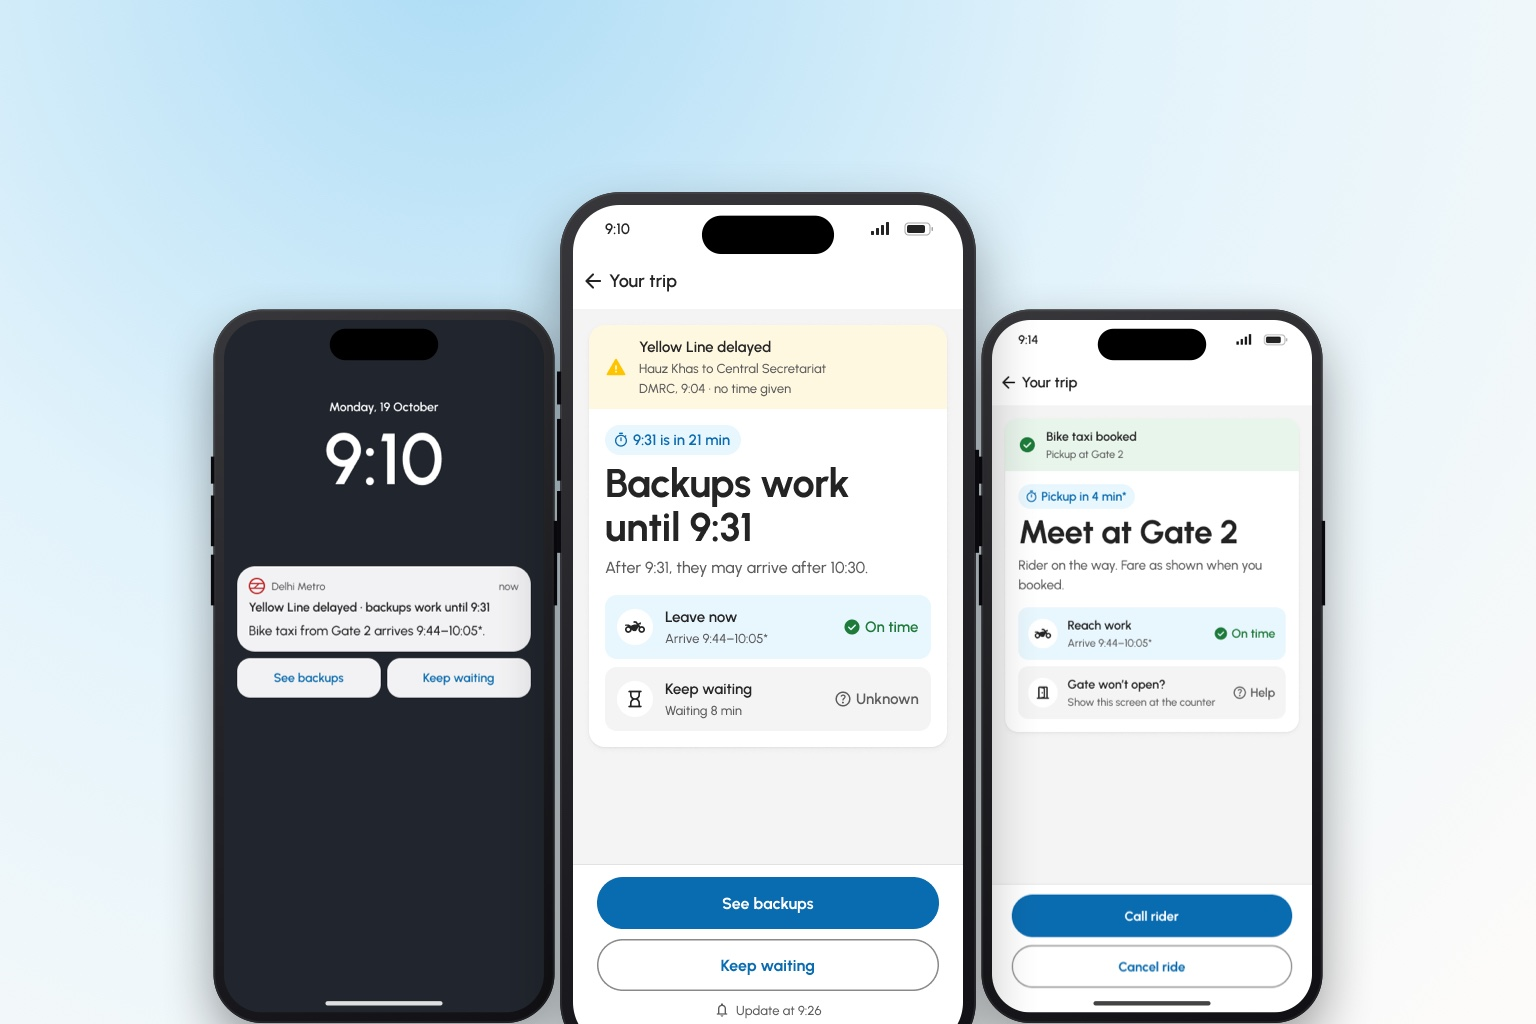
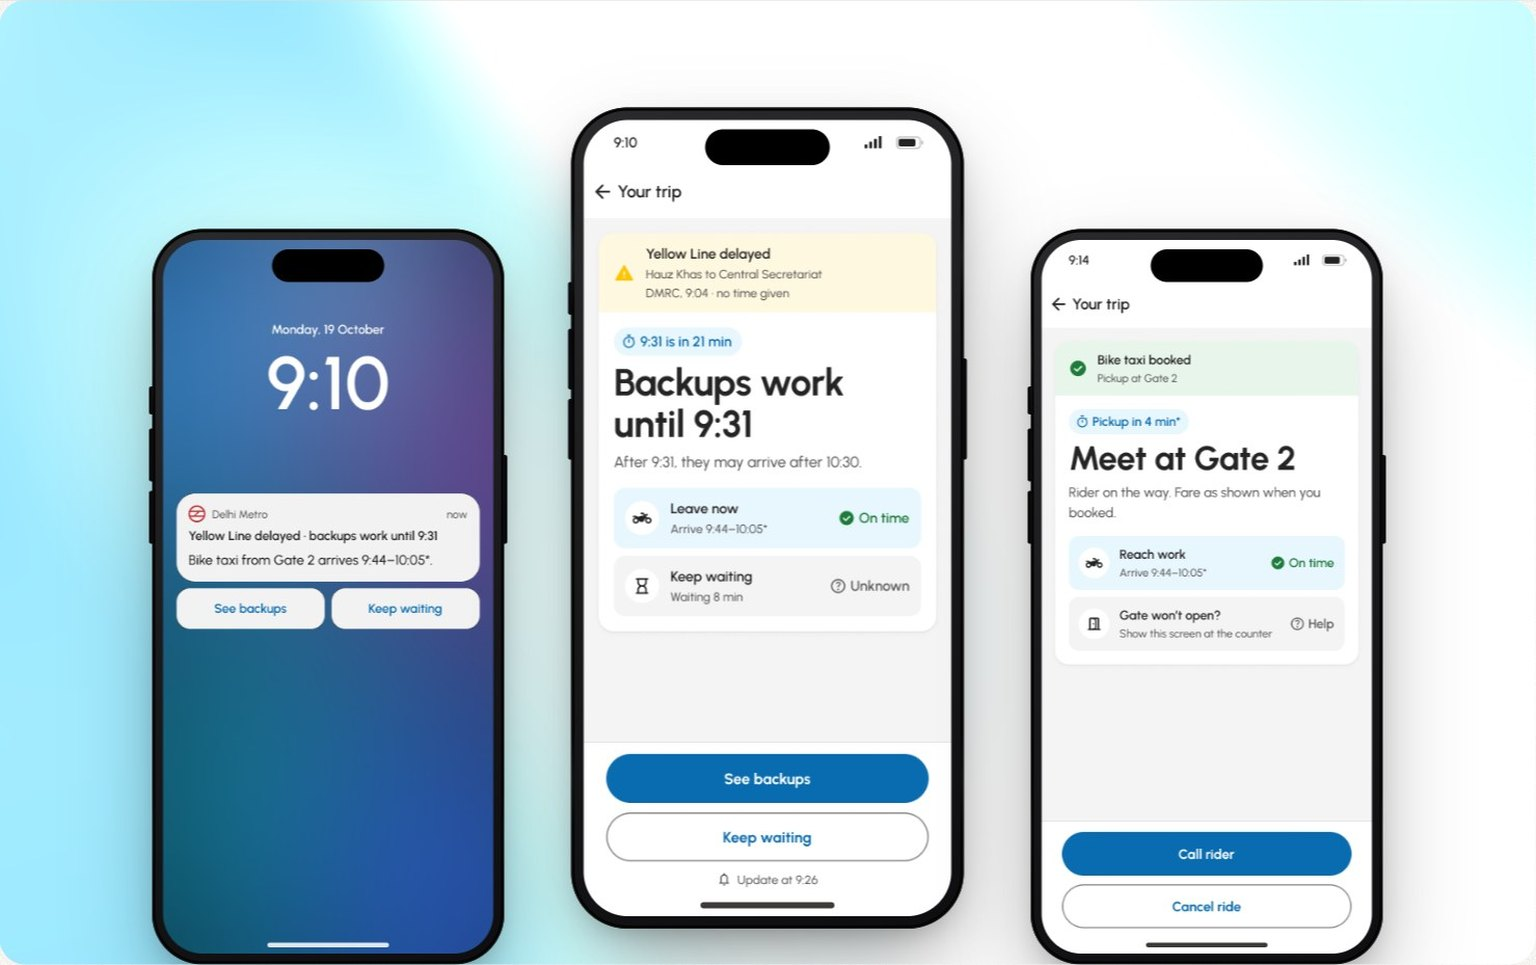
Signal: screens arranged as flows, wallpaper lock screen, live hero
Saving the trip shows its two ways in side by side, the delayed morning
runs as one line of stops with the keep-waiting branch set apart, and
the closure and stress-test states stand alone. The lock screen gets a
blue wallpaper, and the hero is built from the live phone frames over
the wave with even spacing.

diff --git a/app/signal/page.js b/app/signal/page.js
@@ -1,6 +1,6 @@
 'use client'
 
-import { useEffect, useState } from 'react'
+import { Fragment, useEffect, useState } from 'react'
 import { motion, useReducedMotion } from 'motion/react'
 import { Back, Figure, Heading, Tradeoffs } from '../components/case-study'
 import { Arcs, Contrast, Coverage, DailyLoop, DelayMap, Headlines, Journey, Orbit, Timeline } from './charts'
@@ -74,23 +74,29 @@ const PAIRS = [
         ['Time to spare, worked out', 'Arrival against the deadline, so a delay can be read in minutes.']]]],
 ]
 
+/* Stress-test fixes that stand on their own: other situations for the same card. */
 const BREAKS = [
-  ['setup-daily', 'Daily riders tap a card, not a QR ticket', 'So the trip is saved once, with its deadline.'],
-  ['alert-lock', 'They’re working on the way, not watching', 'One alert per trip, with both choices on it.'],
   ['s3-home', 'The fault can hit before they leave', 'The same decision, made from home.'],
   ['s3-train', 'The train can be held between stations', 'The next stop, and what works from there.'],
   ['s3-offline', 'There’s no signal underground', 'It shows what it last knew, and when.'],
   ['s3-restored', 'The first trains back are full', 'It says so, so nobody expects a seat.'],
-  ['ride-booked', 'The gate can fail on the way out', 'What to show at the counter.'],
 ]
 
-const SCREENS = [
-  ['s1-book', 'Night before', 'One new row: arrive by a set time.'],
-  ['s2-home', '8:58', 'A normal day says “On time”.'],
-  ['s3-decision', '9:10, delayed', 'How long backups work, and both choices.'],
-  ['s4-backups', '9:12', 'Every way to get there, with its status.'],
-  ['s5-past', '9:40', 'After 9:31, nothing is pushed.'],
+/* Saving the trip: two ways in, depending on how the rider pays. Not a sequence. */
+const SETUP = [
+  ['s1-book', 'Riders who buy QR tickets', 'One new row while booking: arrive by a set time.'],
+  ['setup-daily', 'Riders who tap a card', 'The trip is saved once, with its days and deadline.'],
 ]
+
+/* The main flow, one delayed morning in order, and the branch if they keep waiting. */
+const FLOW = [
+  ['s2-home', '8:58', 'A normal day says “On time”.'],
+  ['alert-lock', '9:10', 'The line is delayed. One alert, with both choices.'],
+  ['s3-decision', '9:10', 'How long backups work, and both choices.'],
+  ['s4-backups', '9:12', 'Every way to get there, with its status.'],
+  ['ride-booked', '9:14', 'The ride is booked. What to show at the gate.'],
+]
+const BRANCH = ['s5-past', '9:40', 'After 9:31, backups may arrive late. Nothing more is pushed.']
 
 const SKETCHES = [
   ['sketch-c1-signal-card', 'Leave-by card'], ['sketch-c2-journey-thread', 'Journey thread'],
@@ -198,6 +204,19 @@ const Notes = ({ items, tone }) => (
   </ol>
 )
 
+/* A flow drawn as a line with stops: each screen is a stop, in order. */
+const FlowStep = ({ src, time, caption, last, line = 'var(--sig)' }) => (
+  <li className="relative w-[200px] shrink-0 snap-start md:w-auto md:min-w-0 md:flex-1">
+    <div className="relative mb-3 flex h-5 items-center">
+      <span className="relative z-10 h-4 w-4 rounded-full" style={{ border: `4px solid ${line}`, background: 'var(--ground)' }} />
+      {!last && <span aria-hidden="true" className="absolute left-2 top-1/2 h-1 -translate-y-1/2" style={{ width: 'calc(100% + 1.25rem)', background: line }} />}
+    </div>
+    <div className="text-ink mb-2" style={{ fontSize: '0.95rem' }}>{time}</div>
+    <Phone src={src} alt={caption} />
+    <p className="mt-3" style={{ fontSize: '0.9rem' }}>{caption}</p>
+  </li>
+)
+
 export default function Signal() {
   const reduceMotion = useReducedMotion()
   const active = useActive(IDS)
@@ -223,10 +242,13 @@ export default function Signal() {
         </motion.header>
 
         <Network className="track-wide mt-12" />
-        <figure data-case-hero className="track-wide mt-8 overflow-hidden rounded-2xl">
-          <img src={`${V}/hero.jpg`} alt="Three screens from the redesign: a lock-screen alert, the decision screen reading Backups work until 9:31, and a booked bike taxi" width={1536} height={1024} className="sig-light block h-auto w-full" />
-          <img src={`${V}/hero-dark.jpg`} alt="" aria-hidden="true" width={1536} height={1024} className="sig-dark h-auto w-full" />
-        </figure>
+        <Wave className="track-wide mt-8 rounded-2xl">
+          <figure data-case-hero className="flex aspect-[16/10] items-start justify-center gap-[5%] px-[6%] pt-[7%]" aria-label="Three screens from the redesign: a lock-screen alert, the decision screen reading Backups work until 9:31, and a booked bike taxi">
+            <div className="mt-[9%] w-[26%] shrink-0"><Phone src="alert-lock" alt="Lock-screen alert: Yellow Line delayed, backups work until 9:31" /></div>
+            <div className="w-[29%] shrink-0"><Phone src="s3-decision" alt="Decision screen: Backups work until 9:31, with Leave now and Keep waiting" /></div>
+            <div className="mt-[9%] w-[26%] shrink-0"><Phone src="ride-booked" alt="Bike taxi booked: meet at Gate 2" /></div>
+          </figure>
+        </Wave>
 
         <dl className="mt-10 grid gap-x-8 gap-y-6 border-t border-rule pt-7 sm:grid-cols-3">
           <div><dt className="text-ink mb-1">Who it’s for</dt><dd style={{ fontSize: '0.98rem' }}>Office commuters who take the same metro trip every day and can’t be late.</dd></div>
@@ -362,31 +384,53 @@ export default function Signal() {
             <img src={`${V}/d3-backups.webp`} alt="The backups sheet on an iPhone 15 Pro: every way to get there, each with its status" width={663} height={1100} loading="lazy" className="block h-auto w-[43%] max-w-[280px] drop-shadow-2xl" />
           </div>
         </Wave>
-        <div className="track-wide mt-10 rounded-2xl px-5 pb-6 pt-8 sm:px-8" style={{ background: 'radial-gradient(90% 100% at 50% 0%, var(--sig-sky), var(--sig-tint) 55%, var(--ground))' }}>
-          <div className="flex snap-x snap-mandatory gap-5 overflow-x-auto pb-3">
-            {SCREENS.map(([f, t, c]) => (
-              <figure key={f} className="w-[200px] shrink-0 snap-start sm:w-[210px]">
-                <div className="mb-2" style={{ fontSize: '0.9rem', color: t.includes('delayed') ? 'var(--sig-late)' : 'var(--faint)' }}>{t}</div>
-                <Phone src={f} alt={c} />
-                <figcaption className="mt-2" style={{ fontSize: '0.9rem' }}>{c}</figcaption>
+        <h3 className="subhead mt-16">1. Saving the trip</h3>
+        <p>Two ways in, depending on how the rider pays. Either one ends with a saved trip and a deadline.</p>
+        <div className="track-wide mt-8 grid grid-cols-[1fr_auto_1fr] items-start gap-4 sm:gap-8 md:mx-auto md:max-w-[520px]">
+          {SETUP.map(([f, t, c], i) => (
+            <Fragment key={f}>
+              {i === 1 && <span className="text-faint self-center" style={{ fontSize: '0.95rem' }}>or</span>}
+              <figure>
+                <Phone src={f} alt={`${t}. ${c}`} />
+                <figcaption className="mt-3" style={{ fontSize: '0.9rem' }}><span className="text-ink block">{t}</span>{c}</figcaption>
               </figure>
-            ))}
+            </Fragment>
+          ))}
+        </div>
+
+        <h3 className="subhead mt-16">2. A delayed morning</h3>
+        <p>The main flow, in order from left to right.</p>
+        <div className="track-wide mt-8 rounded-2xl px-5 pb-6 pt-8 sm:px-8" style={{ background: 'radial-gradient(90% 100% at 50% 0%, var(--sig-sky), var(--sig-tint) 55%, var(--ground))' }}>
+          <ol className="flex snap-x snap-mandatory gap-5 overflow-x-auto pb-3">
+            {FLOW.map(([f, t, c], i) => <FlowStep key={f} src={f} time={t} caption={c} last={i === FLOW.length - 1} />)}
+          </ol>
+        </div>
+        <div className="track-wide mt-8 flex flex-col gap-6 sm:flex-row sm:items-center sm:gap-10">
+          <figure className="w-[200px] shrink-0">
+            <div className="text-ink mb-2" style={{ fontSize: '0.95rem' }}>{BRANCH[1]}</div>
+            <Phone src={BRANCH[0]} alt={BRANCH[2]} />
+            <figcaption className="mt-3" style={{ fontSize: '0.9rem' }}>{BRANCH[2]}</figcaption>
+          </figure>
+          <div className="space-y-2">
+            <div className="text-ink">If they keep waiting past 9:31</div>
+            <p>A branch off the decision screen, not the next step. The app stops saying backups work, and leaves the choice with the rider.</p>
           </div>
         </div>
 
-        <div className="track-wide mt-14 grid items-center gap-10 md:grid-cols-2">
+        <h3 className="subhead mt-16">On its own: a closure known the night before</h3>
+        <div className="track-wide mt-8 grid items-center gap-10 md:grid-cols-2">
           <div className="overflow-hidden rounded-2xl px-10 pt-10" style={{ background: 'var(--sig-tint)', height: 'clamp(340px, 34vw, 460px)' }}>
             <Phone src="s3b-closure" alt="Closure announced the night before: Rajiv Chowk exits closed tomorrow, nearest open exit Barakhamba Road" className="mx-auto max-w-[260px]" />
           </div>
           <div className="space-y-3">
-            <h3 className="subhead">When the closure is known the night before</h3>
-            <p>Most disruptions from July to October 2026 were planned security closures, announced the evening before. So the choice moves home: which exit is open, and when to leave.</p>
+            <p>Most disruptions from July to October 2026 were planned security closures, announced the evening before. So the choice moves home: which exit is open, and when to leave. It isn’t part of the morning flow.</p>
           </div>
         </div>
       </Section>
 
       {/* ---------- Stress test ---------- */}
       <Section id="stress" line="pink" title="Stress-testing it on a real commute" lede="I took one participant’s commute, three stages and an hour and a half each way, and ran it through the screens one morning at a time. The flow broke in seven places.">
+        <p className="mt-6">Three fixes became part of the flows above: the daily trip for card riders, the lock-screen alert, and what to show at the gate. The other four stand on their own. Each is the same card in a different situation.</p>
         <div className="track-wide mt-10 grid grid-cols-2 gap-x-5 gap-y-9 md:grid-cols-4">
           {BREAKS.map(([f, t, c]) => (
             <figure key={f}>
